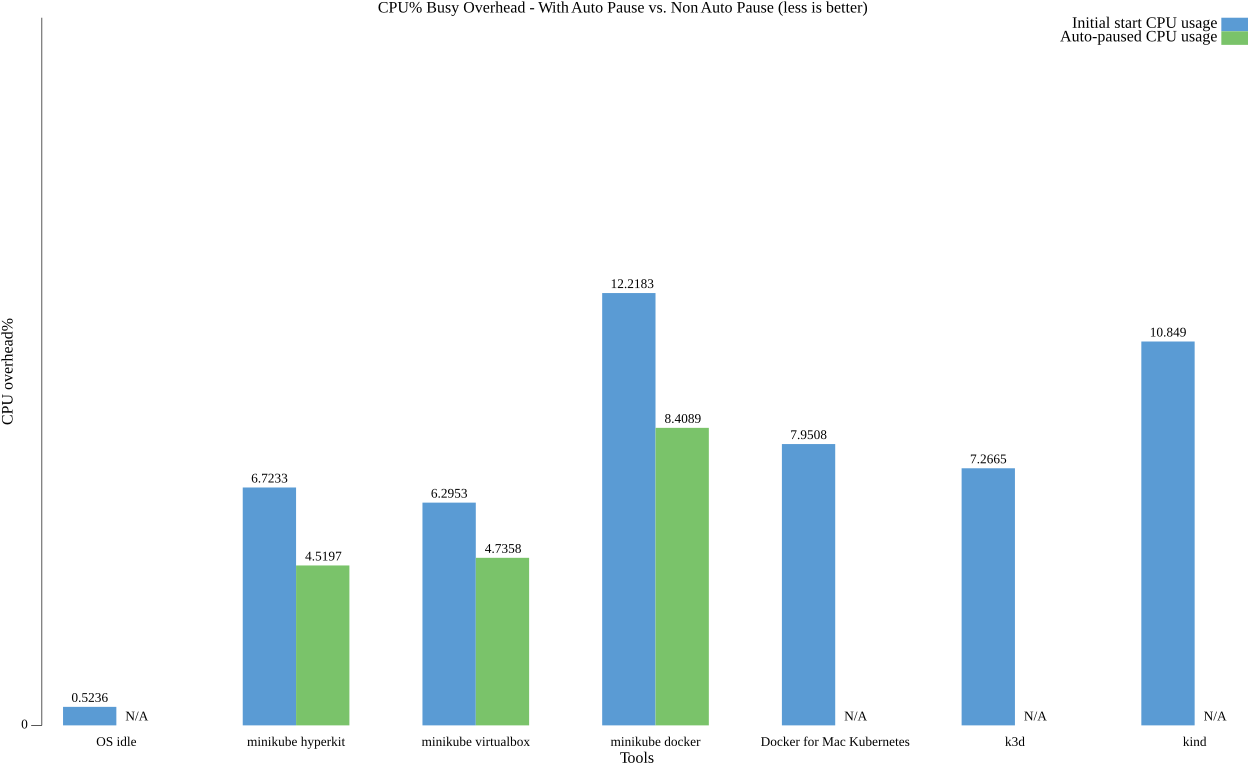
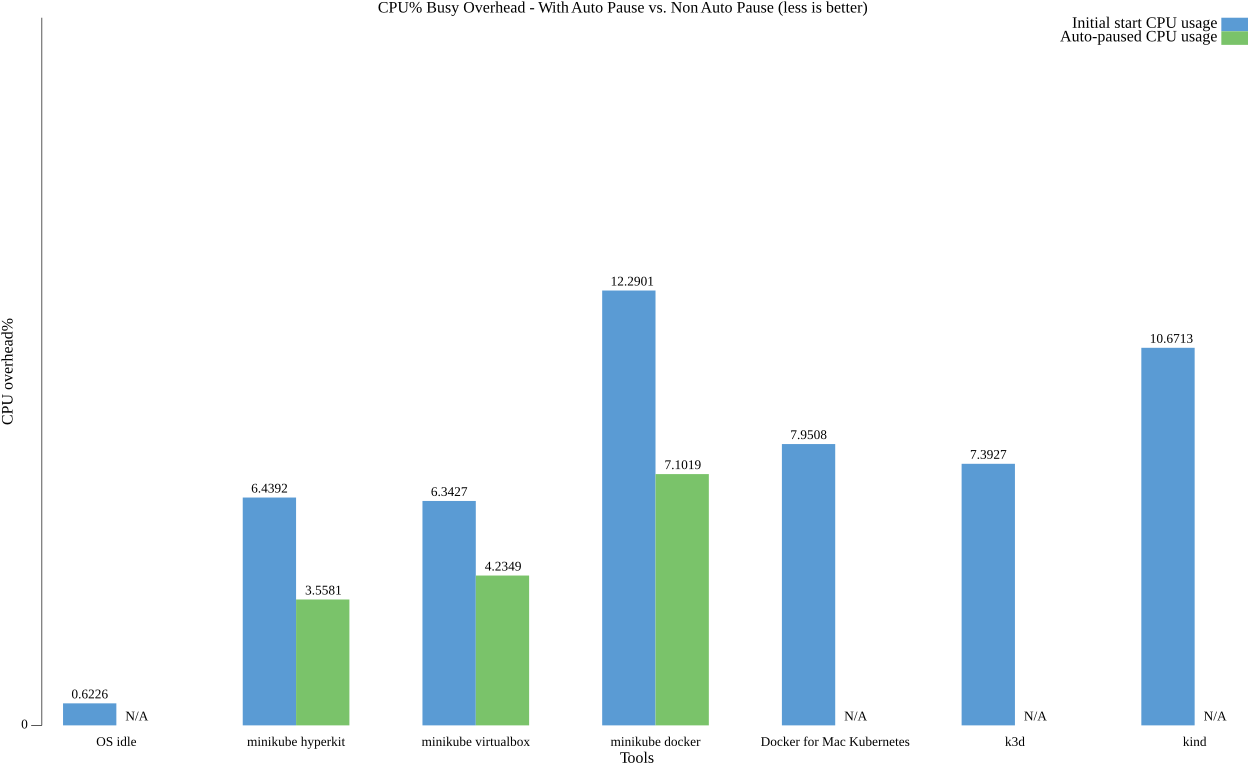
Update macOS auto-pause result with improved method

diff --git a/site/content/en/docs/benchmarks/cpuUsage/macOS/_index.md b/site/content/en/docs/benchmarks/cpuUsage/macOS/_index.md
@@ -23,11 +23,16 @@ This chart was measured with the following steps.
 By these steps, we compare CPU usage with auto-pause vs. non-auto-pause.  
 
  1. start each local kubernetes tool
- 2. deploy sample application(nginx deployment)
+ 2. deploy sample application(nginx deployment) to each tool
  3. wait 1 minute without anything
  4. measure No.3 idle CPU usage with [cstat](https://github.com/tstromberg/cstat)
- 5. enable auto-pause addons(only if tool is minikube)
- 6. wait 3 minute without anything
- 7. measure No.6 idle CPU usage with [cstat](https://github.com/tstromberg/cstat)
+ 5. if tool is minikube, enable auto-pause addon which pause control plane
+ 6. if tool is minikube, wait 1 minute so that control plane will become Paused status(It takes 1 minute to become Pause status from Stopped status)
+ 7. if tool is minikube, verify if minikube control plane is paused
+ 8. if tool is minikube, wait 3 minute without anything
+ 9. if tool is minikube, measure No.8 idle CPU usage with [cstat](https://github.com/tstromberg/cstat)
+
+No.1-4: Initial start CPU usage with sample(nginx) deployment   
+No.5-9: Auto Paused CPU usage with sample(nginx) deployment   
  
 ![autopause](/images/benchmarks/cpuUsage/autoPause/mac.png)
